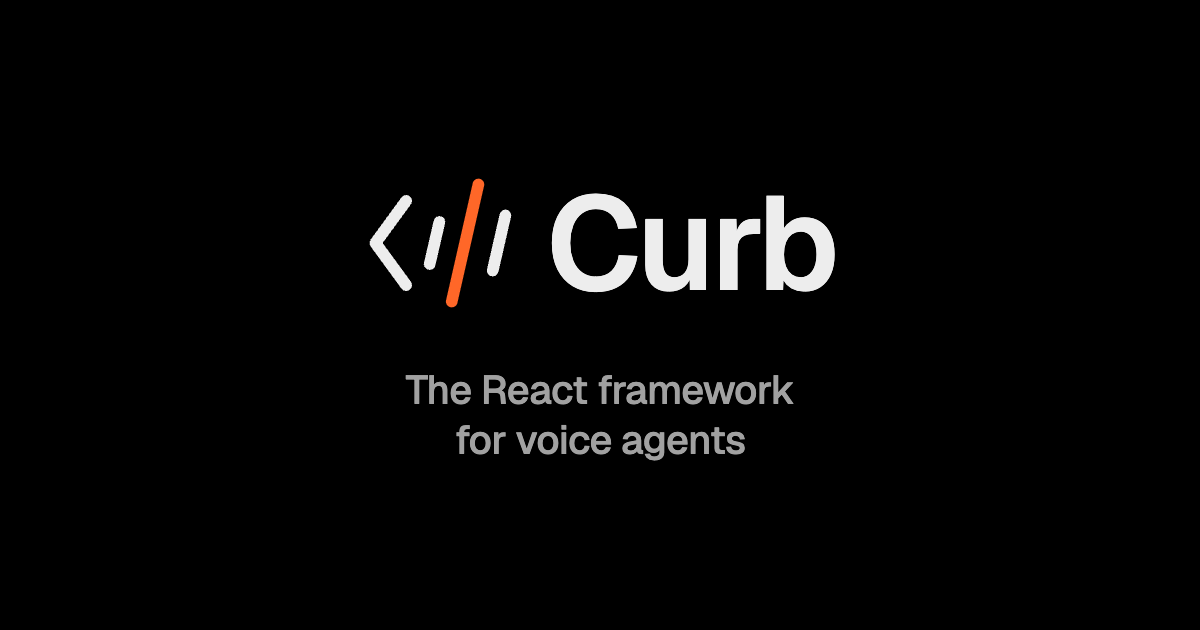
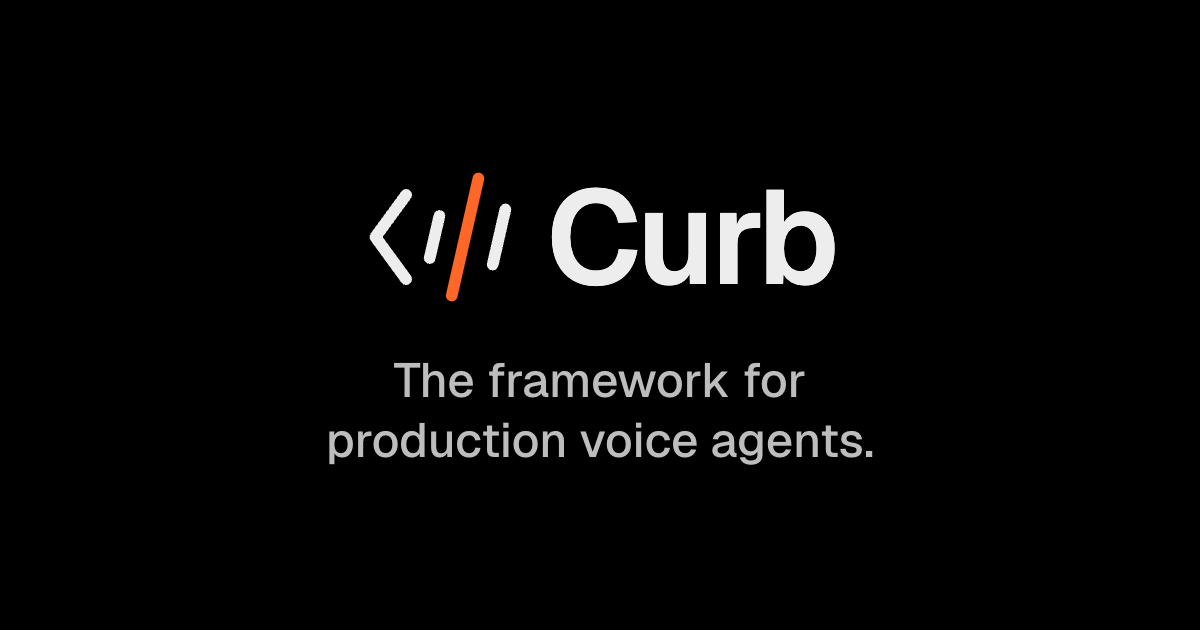
docs: use one tagline across the site, README and packages (#16)
The share image, page title, README and package descriptions each had their
own wording. The headline and description now live in website/src/seo.ts, the
site renders them, and a test fails when the README, package descriptions or
image alt text drift. og.png shows the headline and has a new URL, so link
previews fetch it.

diff --git a/website/src/seo.test.ts b/website/src/seo.test.ts
@@ -1,6 +1,21 @@
+import { existsSync, readFileSync } from 'node:fs'
 import { describe, expect, it } from 'vitest'
 import { GUIDE_PAGES } from './guide'
-import { docsStructuredData, docsTitle, homeStructuredData, jsonLd, keywords, sitemapPaths, sitemapXml } from './seo'
+import {
+  OG_IMAGE_ALT,
+  OG_IMAGE_PATH,
+  SITE_DESCRIPTION,
+  SITE_HEADLINE,
+  SITE_LEDE_HTML,
+  SITE_TITLE,
+  docsStructuredData,
+  docsTitle,
+  homeStructuredData,
+  jsonLd,
+  keywords,
+  sitemapPaths,
+  sitemapXml,
+} from './seo'
 
 const site = new URL('https://curbjs.com')
 
@@ -20,6 +35,38 @@ describe('search metadata', () => {
     const list = keywords(['LiveKit', 'Testing']).split(', ')
     expect(list.slice(0, 2)).toEqual(['LiveKit', 'Testing'])
     expect(new Set(list).size).toBe(list.length)
+  })
+})
+
+describe('tagline', () => {
+  const repoFile = (path: string) => readFileSync(new URL(`../../${path}`, import.meta.url), 'utf8')
+  const packageDescription = (path: string) => (JSON.parse(repoFile(path)) as { description: string }).description
+  const tagline = SITE_HEADLINE.slice(0, -1).toLowerCase()
+
+  it('is the README tagline', () => {
+    expect(repoFile('README.md')).toContain(`<p><strong>${SITE_HEADLINE}</strong></p>`)
+  })
+
+  it('is the description of the framework package', () => {
+    expect(packageDescription('packages/framework/package.json')).toBe(`${SITE_HEADLINE} ${SITE_DESCRIPTION}`)
+  })
+
+  it('names Curb in the description of the create package', () => {
+    expect(packageDescription('packages/create-curb.js/package.json')).toContain('a Curb voice agent')
+  })
+
+  it('is the title and the alt text of the share image', () => {
+    expect(SITE_TITLE.toLowerCase()).toContain(tagline)
+    expect(OG_IMAGE_ALT.toLowerCase()).toContain(tagline)
+  })
+
+  it('bolds phrases of the description without changing its words', () => {
+    expect(SITE_LEDE_HTML.match(/<strong>/g)).toHaveLength(6)
+    expect(SITE_LEDE_HTML.replace(/<\/?strong>/g, '')).toBe(SITE_DESCRIPTION)
+  })
+
+  it('points the share image at a file the site serves', () => {
+    expect(existsSync(new URL(`../public${new URL(OG_IMAGE_PATH, 'https://curbjs.com').pathname}`, import.meta.url))).toBe(true)
   })
 })
 

diff --git a/website/src/seo.ts b/website/src/seo.ts
@@ -2,7 +2,26 @@ import { GUIDE_PAGES, pageUrl, type GuidePageId } from './guide'
 
 export const SITE_NAME = 'Curb'
 
-export const OG_IMAGE_ALT = 'Curb: the React framework for voice agents'
+// og.png shows SITE_HEADLINE as pixels: regenerate it and bump OG_IMAGE_PATH when the headline changes.
+export const SITE_HEADLINE = 'The framework for production voice agents.'
+
+export const SITE_DESCRIPTION =
+  'Dynamic prompting with full control, in plain code you own. Your coding agent can build, test, and simulate conversations before it ships.'
+
+const LEDE_EMPHASIS = ['Dynamic prompting', 'full control', 'you own', 'build', 'test', 'simulate conversations']
+
+/** The home page's lede: SITE_DESCRIPTION with its key phrases in bold. */
+export const SITE_LEDE_HTML = LEDE_EMPHASIS.reduce(
+  (html, phrase) => html.replace(phrase, `<strong>${phrase}</strong>`),
+  SITE_DESCRIPTION,
+)
+
+export const SITE_TITLE = `${SITE_NAME}: ${SITE_HEADLINE.charAt(0).toLowerCase()}${SITE_HEADLINE.slice(1, -1)}`
+
+/** Link previews are cached by image URL, so a new image needs a new version here. */
+export const OG_IMAGE_PATH = '/og.png?v=2'
+
+export const OG_IMAGE_ALT = SITE_TITLE
 
 const KEYWORDS = [
   'voice agents',
@@ -42,7 +61,7 @@ export function homeStructuredData(site: URL, description: string) {
         operatingSystem: 'Linux, macOS',
         softwareRequirements: 'Node.js 22.12 or newer',
         license: 'https://www.apache.org/licenses/LICENSE-2.0',
-        image: new URL('/og.png', site).href,
+        image: new URL(OG_IMAGE_PATH, site).href,
         publisher,
       },
     ],
@@ -63,7 +82,7 @@ export function docsStructuredData(site: URL, id: GuidePageId, title: string) {
         url,
         inLanguage: 'en',
         articleSection: group,
-        image: new URL('/og.png', site).href,
+        image: new URL(OG_IMAGE_PATH, site).href,
         publisher,
       },
       {

diff --git a/website/src/guide.ts b/website/src/guide.ts
@@ -2,7 +2,7 @@ import { existsSync } from 'node:fs'
 
 /** Every guide page in reading order. */
 const ALL_PAGES = [
-  { id: 'readme', file: 'README.md', title: 'Introduction', group: 'Getting Started', description: "Curb is a React framework for voice agents: the tree you render becomes the model's context and tools. How these docs are organized." },
+  { id: 'readme', file: 'README.md', title: 'Introduction', group: 'Getting Started', description: "Curb is a React framework for production voice agents: the tree you render becomes the model's context and tools. How these docs are organized." },
   { id: 'installation', file: 'installation.md', title: 'Installation', group: 'Getting Started', description: "Create a Curb project, sign in, talk to your agent and change it." },
   { id: 'project-structure', file: 'project-structure.md', title: 'Project structure', group: 'Getting Started', description: "What each file in a Curb project does, and where a skill lives." },
   { id: 'agents-and-skills', file: 'agents-and-skills.md', title: 'Agents and skills', group: 'Getting Started', description: "Write agent.tsx and your skills: what is in every request, and what the model opens when it needs it." },

diff --git a/website/src/pages/llms.txt.ts b/website/src/pages/llms.txt.ts
@@ -1,5 +1,6 @@
 import type { APIRoute } from 'astro'
 import { GUIDE_GROUPS, GUIDE_PAGES, markdownUrl } from '../guide'
+import { SITE_DESCRIPTION, SITE_HEADLINE } from '../seo'
 
 export const GET: APIRoute = ({ site }) => {
   const section = (group: (typeof GUIDE_GROUPS)[number]) =>
@@ -9,7 +10,7 @@ export const GET: APIRoute = ({ site }) => {
   const text = [
     '# Curb',
     '',
-    '> Curb is a React and TypeScript framework for production voice agents: the tree you render becomes the LLM context and tools.',
+    `> ${SITE_HEADLINE} ${SITE_DESCRIPTION}`,
     '',
     'Curb runs on LiveKit Agents. You write an agent as React components, with skills, tools and state in plain code, and test whole conversations from the command line before they ship. It needs Node.js 22.12 or newer. Start a project with `npm create curb.js .`.',
     '',

diff --git a/README.md b/README.md
@@ -5,7 +5,7 @@
       <img alt="Curb" src=".github/assets/logo-on-light.svg" width="220">
     </picture>
   </h1>
-  <p><strong>The React framework for voice agents.</strong></p>
+  <p><strong>The framework for production voice agents.</strong></p>
 
 <a href="https://kugelaudio.com"><img alt="Made by KugelAudio" src="https://img.shields.io/badge/MADE%20BY%20KugelAudio-000000.svg?style=for-the-badge&labelColor=000000"></a>
 <img alt="Status: pre-release" src="https://img.shields.io/badge/STATUS-PRE--RELEASE-E8590C.svg?style=for-the-badge&labelColor=000000">
